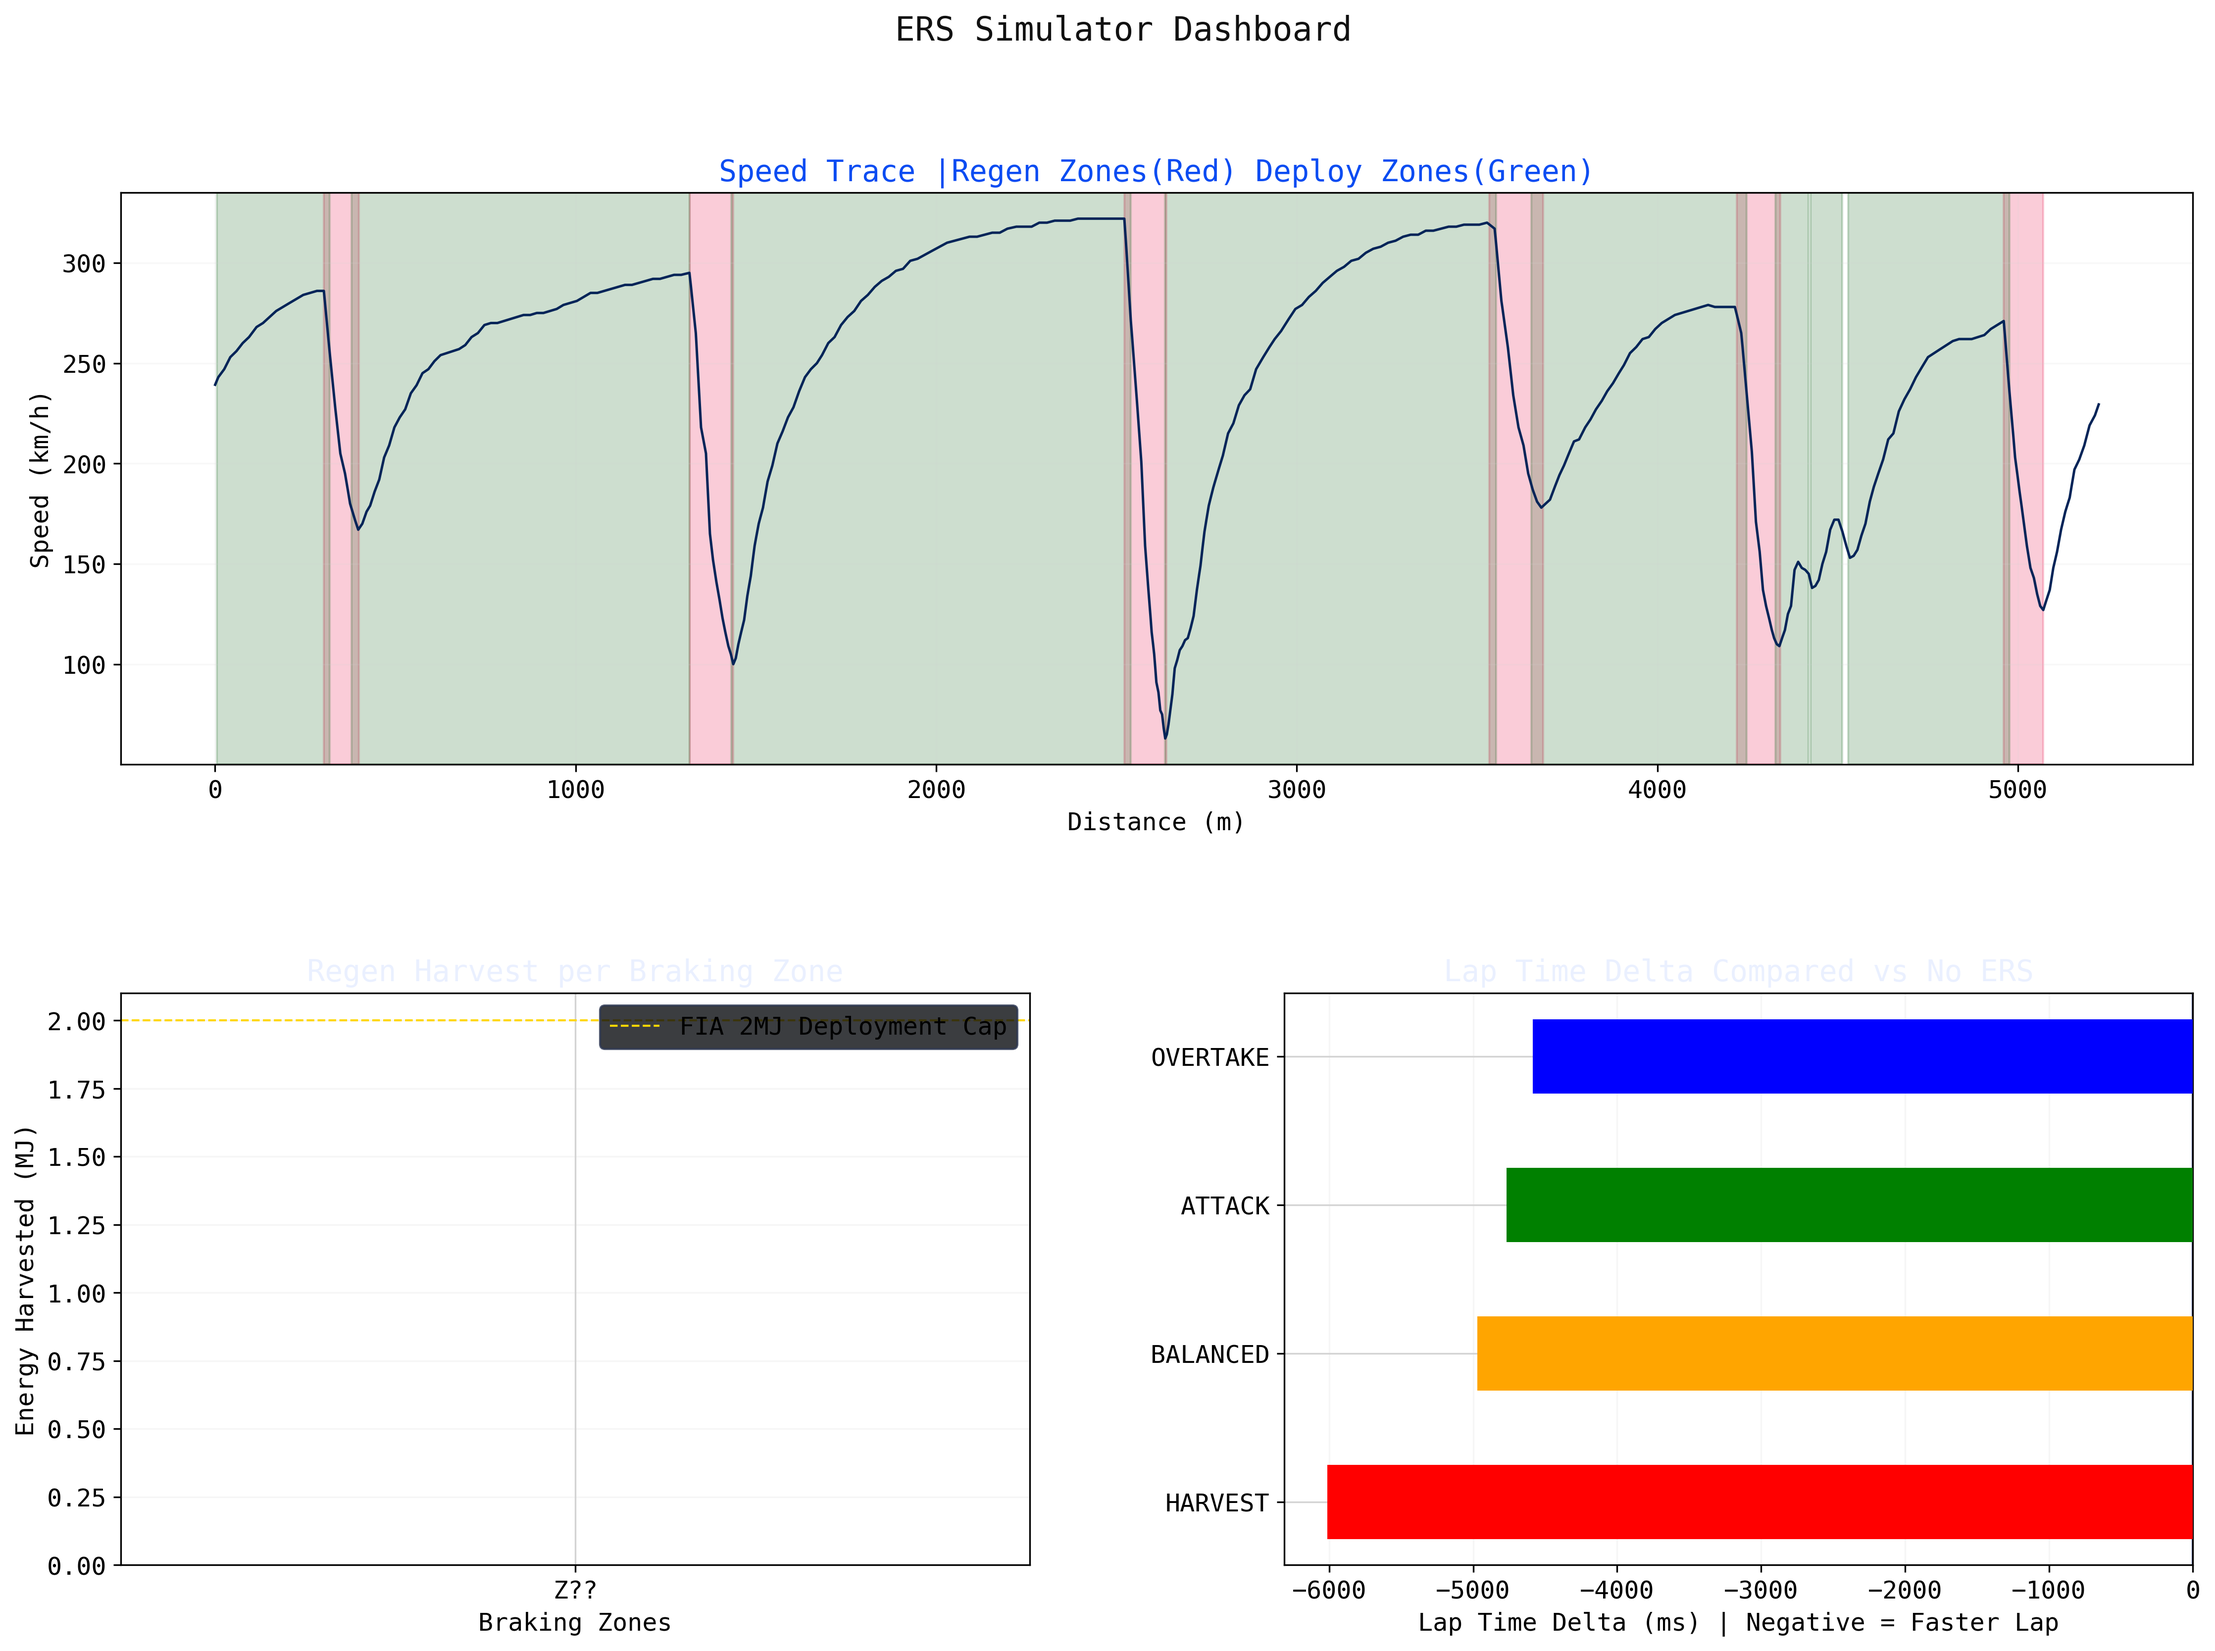
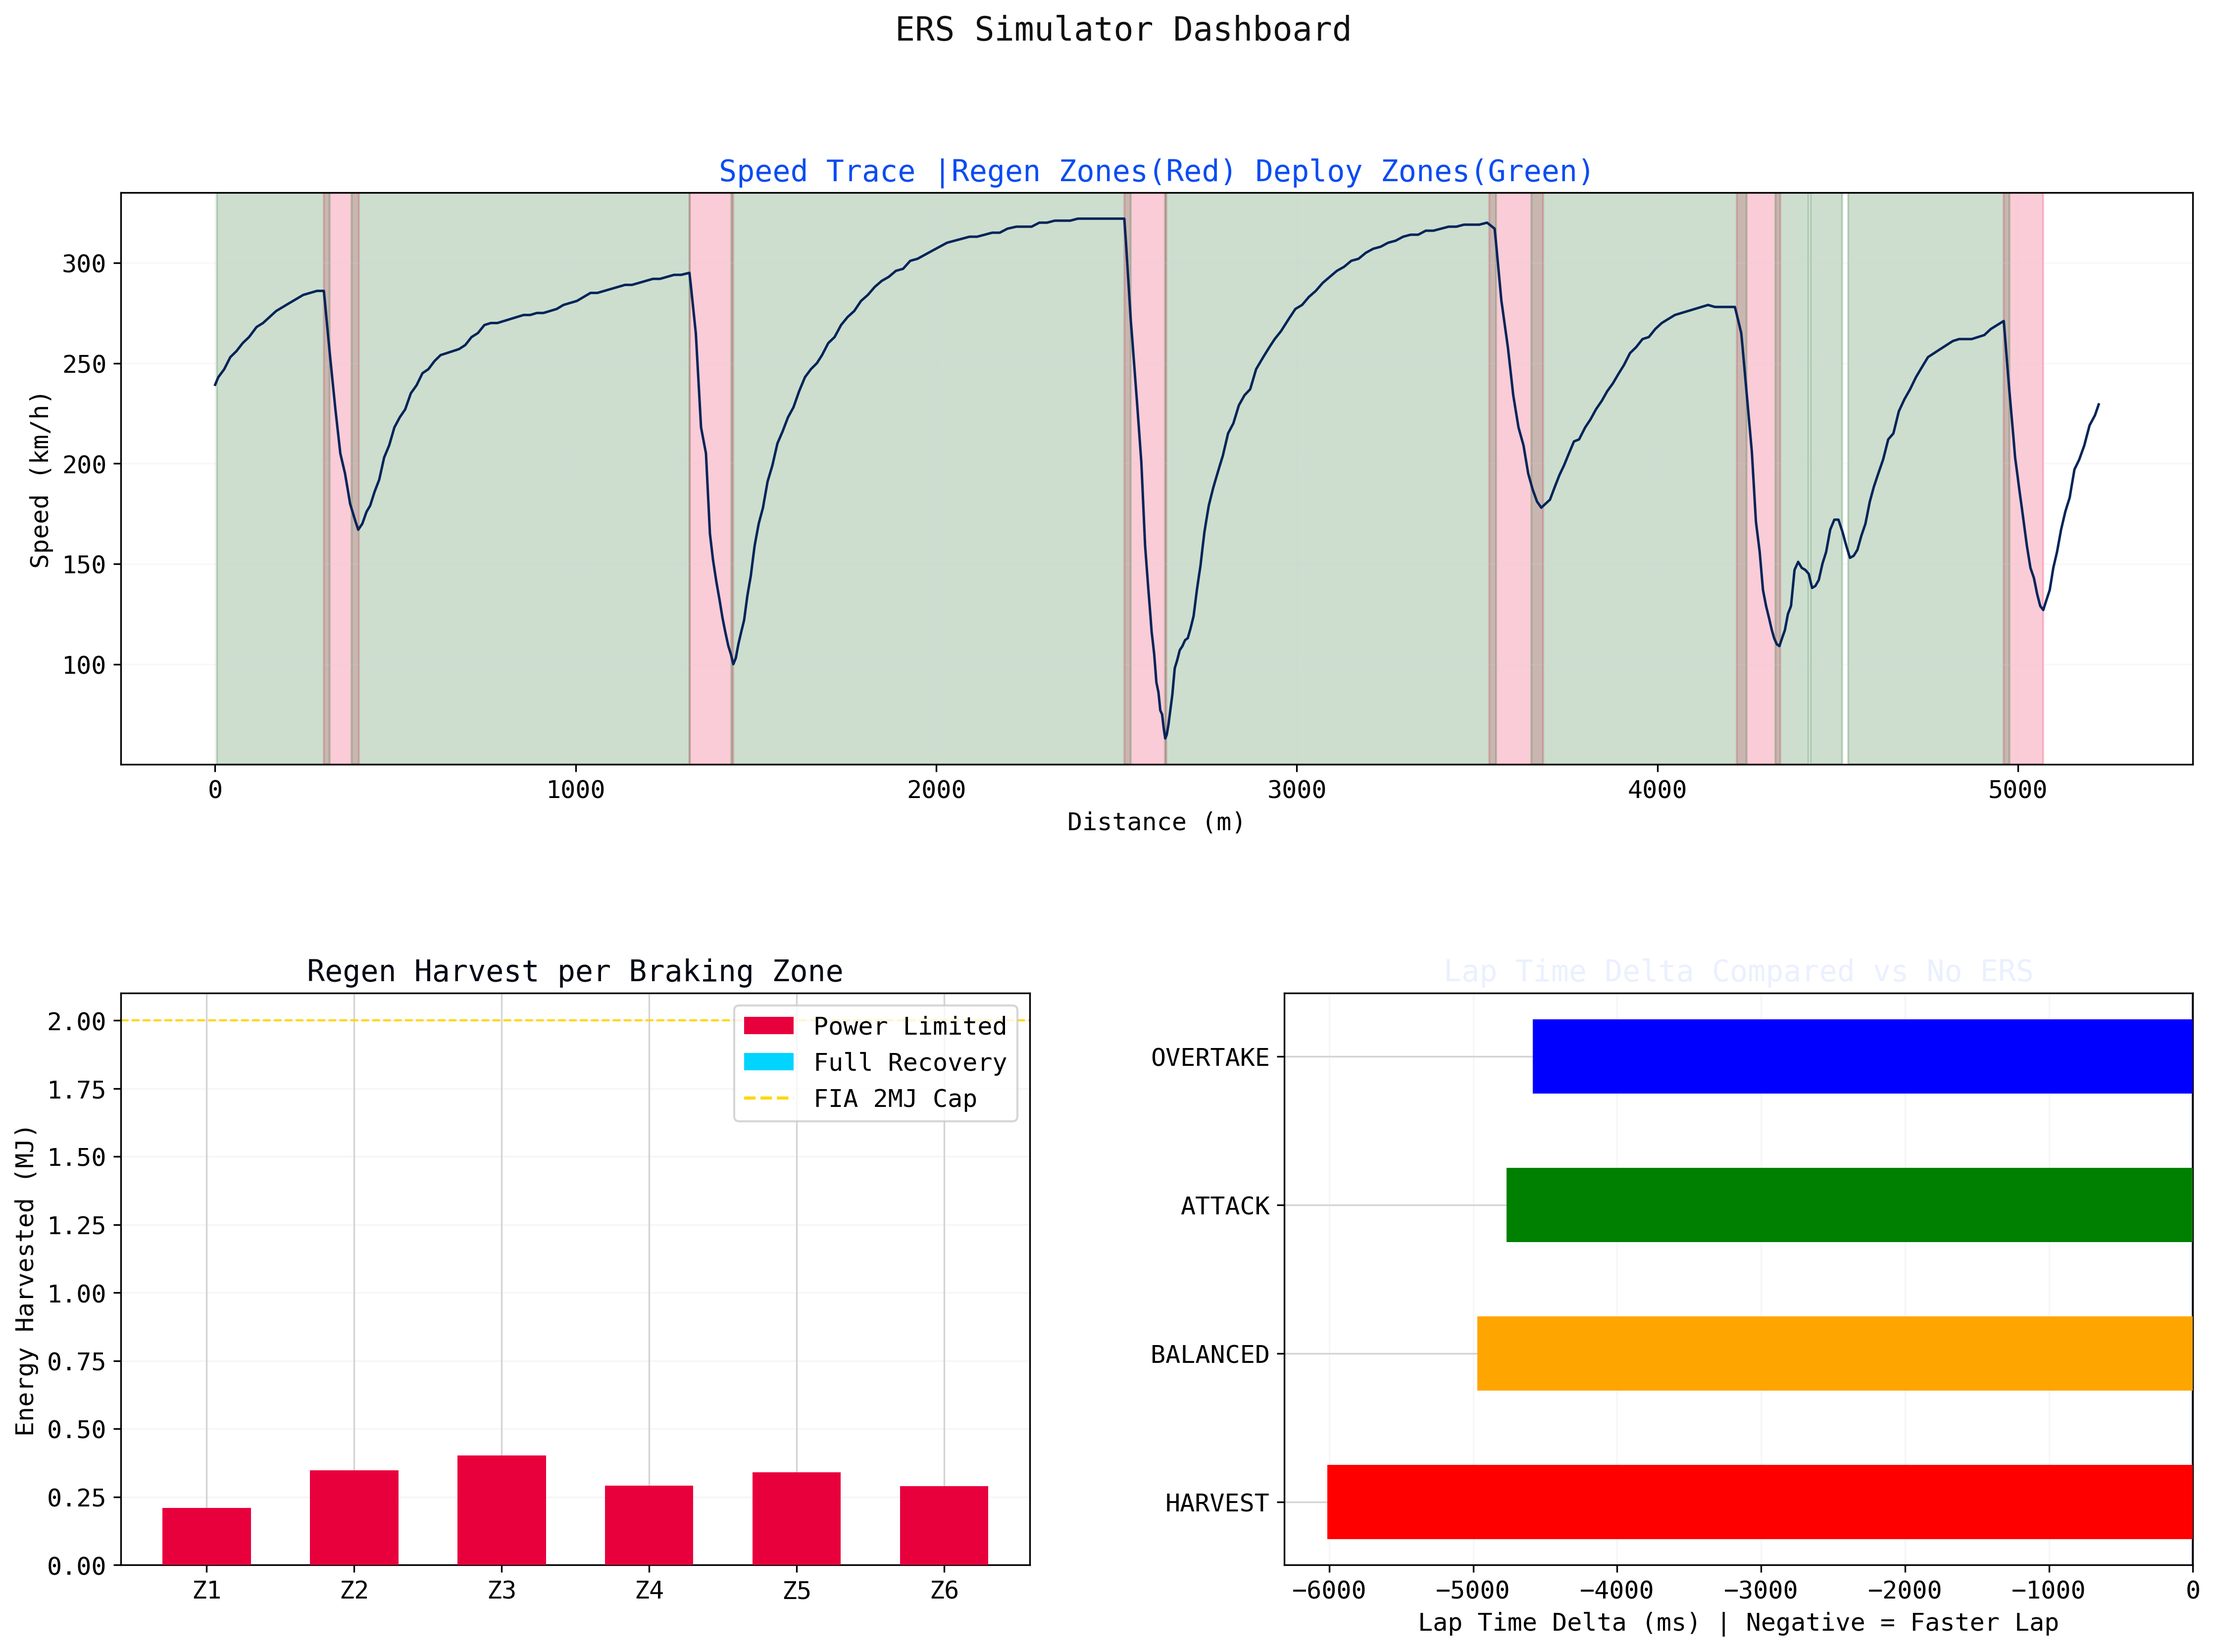
fixed regen harvest per zone in dashboard png

Changed region(s): [[0.0621, 0.8732, 0.466, 0.9979], [0.2485, 0.5613, 0.466, 0.6861], [0.1864, 0.5613, 0.2175, 0.5925]]

diff --git a/visualise.py b/visualise.py
@@ -103,26 +103,35 @@ def plot_dashboard(tel, braking_zones, accel_zones, regen_results, deploy_result
     ax3 = fig.add_subplot(gs[1, 1])
     ax1.plot(tel['Distance'], tel['Speed'], color="#032458", linewidth=1.2, label='Speed (km/h)')
     for zone in braking_zones:
-        ax1.axvspan(zone['start_dist'], zone['end_dist'], color='#e8003d', alpha=0.2, label='Regen Zone')
+        ax1.axvspan(zone['start_dist'], zone['end_dist'], color='#e8003d', alpha=0.2, 
+                    label='Regen Zone' if 'Regen Zone' not in ax1.get_legend_handles_labels()[1] else "")
     for zone in accel_zones:
-        ax1.axvspan(zone['start_dist'], zone['end_dist'], color="#055e10", alpha=0.2, label='Deployment Zone')
+        ax1.axvspan(zone['start_dist'], zone['end_dist'], color="#055e10", alpha=0.2, 
+                    label='Deployment Zone'  if 'Deployment Zone' not in ax1.get_legend_handles_labels()[1] else "")
     ax1.set_title('Speed Trace |Regen Zones(Red) Deploy Zones(Green)', color="#0b4cf2")
     ax1.set_xlabel('Distance (m)')
     ax1.set_ylabel('Speed (km/h)')
     ax1.grid(alpha=0.15)
 
-    zones = [f"Z{r.get('zone_idx', '??')}" for r in regen_results]
-    energy = [r.get('actual_regen_mj', 0) for r in regen_results]
+    zones = [f"Z{i+1}" for i in range(len(regen_results))]
+    energy = [r.get('actual_harvest_mj', 0) for r in regen_results]
     colors = ['#e8003d' if r.get('power_limited', False) else '#00d4ff' for r in regen_results]
 
-    ax2.bar(zones, energy, color=colors, width=0.6, zorder=3)
-    ax2.axhline(y=2.0, color='#ffd700', linestyle='--', lw=1, label='FIA 2MJ Deployment Cap', zorder=2)
-    ax2.set_title('Regen Harvest per Braking Zone', color='#eaf0ff')
-    ax2.set_xlabel('Braking Zones')
+    bars = ax2.bar(zones, energy, color=colors, width=0.6, zorder=3)
+    ax2.axhline(y=2.0, color='#ffd700', linestyle='--', lw=1, label='FIA 2MJ Cap', zorder=2) #FIA deployment limit reference line
+    from matplotlib.patches import Patch # Legend (Manual handles for the colors)
+    legend_elements = [
+        Patch(facecolor='#e8003d', label='Power Limited'),
+        Patch(facecolor='#00d4ff', label='Full Recovery'),
+        plt.Line2D([0], [0], color='#ffd700', linestyle='--', label='FIA 2MJ Cap')
+    ]
+    ax2.set_title('Regen Harvest per Braking Zone', color="#020714")
     ax2.set_ylabel('Energy Harvested (MJ)')
     ax2.grid(axis='y', alpha=0.2, zorder=0)
-    ax2.legend(loc='upper right', facecolor='#0a0c10', edgecolor='#2a3550')
+    ax2.legend(handles=legend_elements, loc='upper right')
 
+    if not mode_results:
+        print("Warning: mode_results is empty!") #TODO: rename
     modes = list(mode_results.keys())
     deltas = [mode_results[m]['lap_time_delta_ms'] for m in modes]
     m_colors = [ERS_MODES[m]['color'] for m in modes]
@@ -134,8 +143,8 @@ def plot_dashboard(tel, braking_zones, accel_zones, regen_results, deploy_result
     
     fig.suptitle('ERS Simulator Dashboard', fontsize=16, color="#111111")
     plt.savefig('ers_simulator_dashboard.png', dpi=300, bbox_inches='tight')
-    plt.show()
     print("Dashboard plot saved as ers_simulator_dashboard.png")
+    plt.show()
 
 
     
